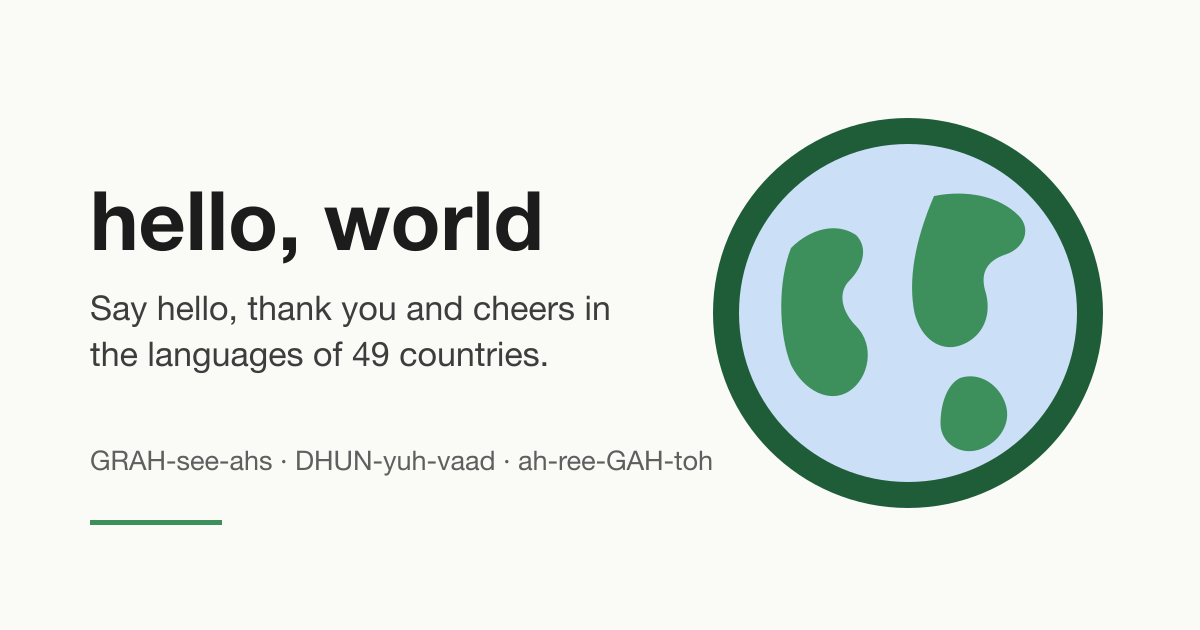
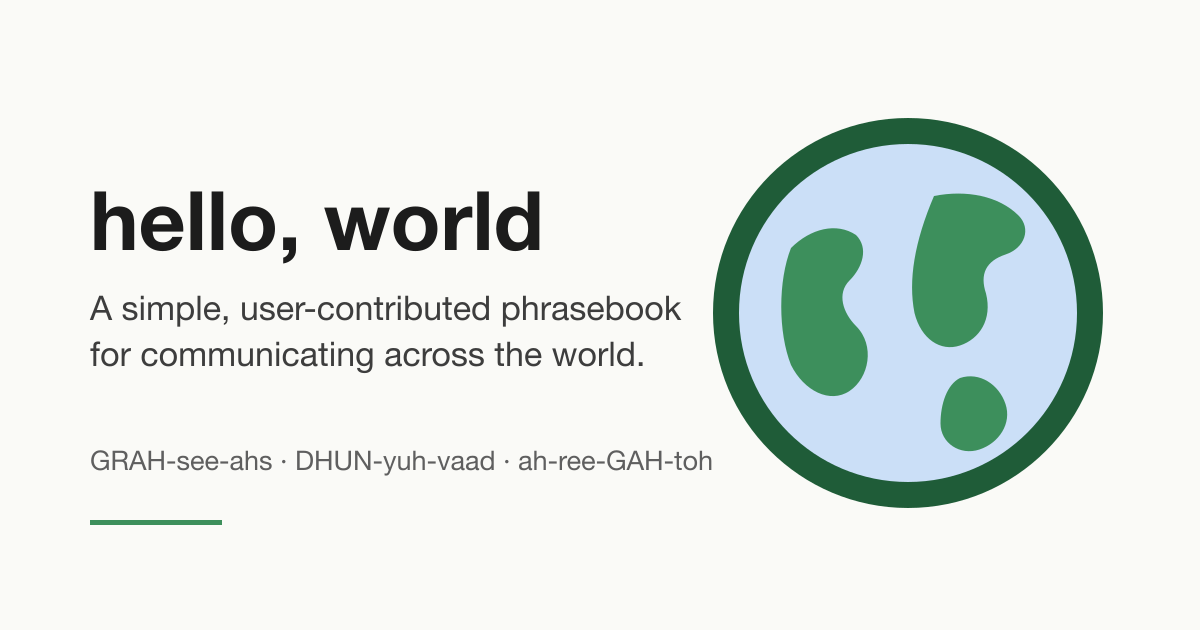
Simplify the description to a plain statement of what this is
User preference. The old copy ("Say hello, thank you and cheers in
the languages of 49 countries. Anglicised pronunciations you can
read out loud.") described the mechanics; this states the thing.

Changed in all four places it lives so they cannot drift: the meta
description, og:description, the web manifest, and the rendered
share card. The card was regenerated from its SVG source rather
than edited as a bitmap.

Flagged, not silently accepted: "user-contributed" is not true of
the content yet. All 1330 entries are status "ai" with zero
verified and zero contributors, and PRODUCT.md lists contributors
among the things that may not be invented or implied. The
contribution mechanism is real and shipped, so the phrase is
defensible as a description of the model, but a reader will infer
the content came from users. Kept the user's wording as asked;
"a simple, open phrasebook" would carry the same intent without
the claim.

Verified: copy replaced in all four locations with no occurrence of
the old string, manifest still valid JSON, card renders correctly
at 1200x630, 42 tests, validator and detector green.

Claude-Session: https://claude.ai/code/session_01BLSdmQqAYKUPyZgJmgoZ7d

Changed region(s): [[0.0617, 0.5429, 0.555, 0.6032], [0.0617, 0.4524, 0.5858, 0.5127]]

diff --git a/index.html b/index.html
@@ -8,7 +8,7 @@
 	<!-- Meta content stays on one line: a wrapped attribute
 	     carries its newlines and tabs into the value, and not
 	     every scraper collapses them. -->
-	<meta name="description" content="Say hello, thank you and cheers in the languages of 49 countries. Anglicised pronunciations you can read out loud.">
+	<meta name="description" content="A simple, user-contributed phrasebook for communicating across the world.">
 	<link rel="canonical"
 	      href="https://aryakaul.github.io/hello-world/">
 
@@ -21,7 +21,7 @@
 	<meta property="og:type" content="website">
 	<meta property="og:site_name" content="hello, world">
 	<meta property="og:title" content="hello, world">
-	<meta property="og:description" content="Say hello, thank you and cheers in the languages of 49 countries. Anglicised pronunciations you can read out loud.">
+	<meta property="og:description" content="A simple, user-contributed phrasebook for communicating across the world.">
 	<meta property="og:url" content="https://aryakaul.github.io/hello-world/">
 	<meta property="og:image" content="https://aryakaul.github.io/hello-world/icons/og-image.png">
 	<meta property="og:image:width" content="1200">
